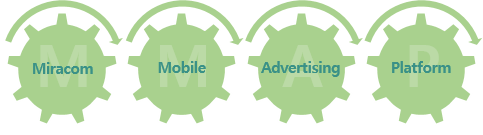
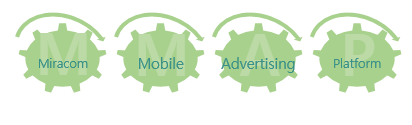
디자인변경

diff --git a/views/top3.html b/views/top3.html
@@ -16,7 +16,7 @@
 <body>
 	<table style="width: 100%; height: 130px;" border=0 >
 		<tr align="top;">
-			<td width="30%;" style="padding-left: 10px;"><img src="/img/mmap01.png"></td>
+			<td width="30%;" style="padding-left: 10px;"><img src="/img/mmap02.png"></td>
 			<td width="70%;" style="padding-bottom: 60px;">
 			
 			<div class="navbar-wrapper" >
